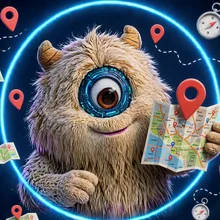
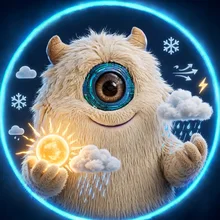
Démo BeyaBear's : mascottes Nuit, Socle, Météo, micro
Claude-Session: https://claude.ai/code/session_01HmDuQiYFhyot1Lrx4rF6nG

diff --git a/beyabears/index.html b/beyabears/index.html
@@ -13,8 +13,8 @@
 <meta name="apple-mobile-web-app-title" content="BeyaBear’s">
 <meta name="apple-mobile-web-app-status-bar-style" content="default">
 <link rel="stylesheet" href="https://fonts.googleapis.com/css2?family=Lato:wght@400;700;900&family=Plus+Jakarta+Sans:wght@500;700;800&display=swap">
-<link rel="preload" as="image" href="mascottes.jpg?v=4">
-<link rel="stylesheet" href="style.css?v=11261900">
+<link rel="preload" as="image" href="mascottes.jpg?v=5">
+<link rel="stylesheet" href="style.css?v=11262000">
 <body>
 <script>(function(){var p=new URLSearchParams(location.search);if(!['app','proche','appel','oeil'].some(function(k){return p.has(k)}))document.body.classList.add('landing')})()</script>
 <div id="landing">
@@ -96,14 +96,14 @@
     <svg viewBox="0 0 34 30" aria-hidden="true"><circle cx="8" cy="8" r="6.5" fill="#ead9b8"/><circle cx="26" cy="8" r="6.5" fill="#ead9b8"/><circle cx="17" cy="17" r="12.5" fill="#ead9b8"/><circle cx="17" cy="16" r="6.6" fill="#06080f"/><circle cx="17" cy="16" r="5" fill="none" stroke="#2e8bff" stroke-width="2.2"/><circle cx="19" cy="14" r="1.3" fill="#fff"/></svg>
     BeyaBear’s
   </a>
-  <span class="tools"><button class="ghost mic" data-listen type="button" aria-label="Parler à BeyaBear’s"><svg viewBox="0 0 24 24" aria-hidden="true" fill="none" stroke="currentColor" stroke-width="2" stroke-linecap="round"><rect x="9" y="3" width="6" height="11" rx="3"/><path d="M5 11a7 7 0 0 0 14 0M12 18v3"/></svg></button>
+  <span class="tools"><button class="ghost mic" data-listen type="button" aria-label="Parler à BeyaBear’s"><span class="masc" style="background-position:100% 50%"></span></button>
   <button class="ghost" id="viewToggle" type="button">Agrandir l’œil</button></span>
 </header>
 
 <main>
   <section class="stage" id="stage" aria-label="BeyaBear’s">
     <div class="plushBox">
-      <img class="plush" src="ourson.webp?v=11261900" alt="Ourson BeyaBear’s en casquette marine et casque audio, sous le logo, avec son écran rond au milieu du visage">
+      <img class="plush" src="ourson.webp?v=11262000" alt="Ourson BeyaBear’s en casquette marine et casque audio, sous le logo, avec son écran rond au milieu du visage">
       <div class="eye" id="eye" role="button" tabindex="0" aria-label="Œil de BeyaBear’s : ouvrir le menu">
         <div class="iris" id="iris" role="img" aria-label="Iris de BeyaBear’s"></div>
         <div class="screen" id="screen"></div>
@@ -117,15 +117,15 @@
 
 <footer class="foot"><b>BeyaBear’s</b><span>Démonstration de l’œil · © 2026</span></footer>
 <div id="toast" role="status"></div>
-<script src="qr.js?v=11261900"></script>
-<script src="paroles.js?v=11261900"></script>
-<script src="langue.js?v=11261900"></script>
-<script src="voix/liste.js?v=11261900"></script>
-<script src="jeux.js?v=11261900"></script>
-<script src="labo.js?v=11261900"></script>
-<script src="app.js?v=11261900"></script>
-<script src="clavier.js?v=11261900"></script>
-<script src="accueil.js?v=11261900"></script>
-<script src="traduire.js?v=11261900"></script>
+<script src="qr.js?v=11262000"></script>
+<script src="paroles.js?v=11262000"></script>
+<script src="langue.js?v=11262000"></script>
+<script src="voix/liste.js?v=11262000"></script>
+<script src="jeux.js?v=11262000"></script>
+<script src="labo.js?v=11262000"></script>
+<script src="app.js?v=11262000"></script>
+<script src="clavier.js?v=11262000"></script>
+<script src="accueil.js?v=11262000"></script>
+<script src="traduire.js?v=11262000"></script>
 </body>
 </html>

diff --git a/boozzo/index.html b/boozzo/index.html
@@ -13,8 +13,8 @@
 <meta name="apple-mobile-web-app-title" content="BeyaBear’s">
 <meta name="apple-mobile-web-app-status-bar-style" content="default">
 <link rel="stylesheet" href="https://fonts.googleapis.com/css2?family=Lato:wght@400;700;900&family=Plus+Jakarta+Sans:wght@500;700;800&display=swap">
-<link rel="preload" as="image" href="mascottes.jpg?v=4">
-<link rel="stylesheet" href="style.css?v=11261900">
+<link rel="preload" as="image" href="mascottes.jpg?v=5">
+<link rel="stylesheet" href="style.css?v=11262000">
 <body>
 <script>(function(){var p=new URLSearchParams(location.search);if(!['app','proche','appel','oeil'].some(function(k){return p.has(k)}))document.body.classList.add('landing')})()</script>
 <div id="landing">
@@ -96,14 +96,14 @@
     <svg viewBox="0 0 34 30" aria-hidden="true"><circle cx="8" cy="8" r="6.5" fill="#ead9b8"/><circle cx="26" cy="8" r="6.5" fill="#ead9b8"/><circle cx="17" cy="17" r="12.5" fill="#ead9b8"/><circle cx="17" cy="16" r="6.6" fill="#06080f"/><circle cx="17" cy="16" r="5" fill="none" stroke="#2e8bff" stroke-width="2.2"/><circle cx="19" cy="14" r="1.3" fill="#fff"/></svg>
     BeyaBear’s
   </a>
-  <span class="tools"><button class="ghost mic" data-listen type="button" aria-label="Parler à BeyaBear’s"><svg viewBox="0 0 24 24" aria-hidden="true" fill="none" stroke="currentColor" stroke-width="2" stroke-linecap="round"><rect x="9" y="3" width="6" height="11" rx="3"/><path d="M5 11a7 7 0 0 0 14 0M12 18v3"/></svg></button>
+  <span class="tools"><button class="ghost mic" data-listen type="button" aria-label="Parler à BeyaBear’s"><span class="masc" style="background-position:100% 50%"></span></button>
   <button class="ghost" id="viewToggle" type="button">Agrandir l’œil</button></span>
 </header>
 
 <main>
   <section class="stage" id="stage" aria-label="BeyaBear’s">
     <div class="plushBox">
-      <img class="plush" src="ourson.webp?v=11261900" alt="Ourson BeyaBear’s en casquette marine et casque audio, sous le logo, avec son écran rond au milieu du visage">
+      <img class="plush" src="ourson.webp?v=11262000" alt="Ourson BeyaBear’s en casquette marine et casque audio, sous le logo, avec son écran rond au milieu du visage">
       <div class="eye" id="eye" role="button" tabindex="0" aria-label="Œil de BeyaBear’s : ouvrir le menu">
         <div class="iris" id="iris" role="img" aria-label="Iris de BeyaBear’s"></div>
         <div class="screen" id="screen"></div>
@@ -117,15 +117,15 @@
 
 <footer class="foot"><b>BeyaBear’s</b><span>Démonstration de l’œil · © 2026</span></footer>
 <div id="toast" role="status"></div>
-<script src="qr.js?v=11261900"></script>
-<script src="paroles.js?v=11261900"></script>
-<script src="langue.js?v=11261900"></script>
-<script src="voix/liste.js?v=11261900"></script>
-<script src="jeux.js?v=11261900"></script>
-<script src="labo.js?v=11261900"></script>
-<script src="app.js?v=11261900"></script>
-<script src="clavier.js?v=11261900"></script>
-<script src="accueil.js?v=11261900"></script>
-<script src="traduire.js?v=11261900"></script>
+<script src="qr.js?v=11262000"></script>
+<script src="paroles.js?v=11262000"></script>
+<script src="langue.js?v=11262000"></script>
+<script src="voix/liste.js?v=11262000"></script>
+<script src="jeux.js?v=11262000"></script>
+<script src="labo.js?v=11262000"></script>
+<script src="app.js?v=11262000"></script>
+<script src="clavier.js?v=11262000"></script>
+<script src="accueil.js?v=11262000"></script>
+<script src="traduire.js?v=11262000"></script>
 </body>
 </html>

diff --git a/beyabears/style.css b/beyabears/style.css
@@ -707,7 +707,7 @@ img.masc { display: block; width: 100%; height: 100%; object-fit: cover; border-
 @media (max-width: 700px) { .apps i.c-masc { width: 72px; height: 72px; } .l-try .apps i.c-masc { width: 58px; height: 58px; } }
 
 /* Mascottes : une seule planche d'images */
-span.masc { display: block; width: 100%; height: 100%; border-radius: 50%; background: #050a22 url(mascottes.jpg?v=4) no-repeat; background-size: 500% 500%; }
+span.masc { display: block; width: 100%; height: 100%; border-radius: 50%; background: #050a22 url(mascottes.jpg?v=5) no-repeat; background-size: 500% 500%; }
 
 /* --- Localisation --- */
 .c-locate { background: linear-gradient(#ff7a6b, #d62d3a); }
@@ -746,3 +746,9 @@ span.masc { display: block; width: 100%; height: 100%; border-radius: 50%; backg
 .musArtist { display: grid; grid-template-columns: 84px 1fr; gap: 14px; align-items: center; margin: 14px 0; padding: 12px; border-radius: 20px; background: #f7f1e3; color: #2a2112; }
 .musArtist img { width: 84px; height: 84px; border-radius: 14px; object-fit: cover; box-shadow: 0 6px 14px rgba(60, 40, 0, .25); } .musArtist small { display: block; font-size: .72rem; font-weight: 800; letter-spacing: .1em; text-transform: uppercase; color: #9a7a2a; } .musArtist b { display: block; font-size: 1.2rem; } .musArtist span { font-size: .86rem; color: #6b5a36; }
 .musList { max-height: 420px; overflow: auto; }
+
+/* Le bouton « Parler » : la mascotte au micro */
+.ghost.mic { padding: 3px; border-radius: 50%; } .ghost.mic span.masc { width: 42px; height: 42px; }
+body.hearing .ghost.mic { box-shadow: 0 0 0 3px var(--danger), 0 0 18px var(--danger); }
+.btn span.masc { width: 36px; height: 36px; flex: none; margin: -6px 2px -6px -10px; box-shadow: 0 0 0 2px #fff; }
+.menu .dock button span.masc { width: 100%; height: 100%; }

diff --git a/boozzo/style.css b/boozzo/style.css
@@ -707,7 +707,7 @@ img.masc { display: block; width: 100%; height: 100%; object-fit: cover; border-
 @media (max-width: 700px) { .apps i.c-masc { width: 72px; height: 72px; } .l-try .apps i.c-masc { width: 58px; height: 58px; } }
 
 /* Mascottes : une seule planche d'images */
-span.masc { display: block; width: 100%; height: 100%; border-radius: 50%; background: #050a22 url(mascottes.jpg?v=4) no-repeat; background-size: 500% 500%; }
+span.masc { display: block; width: 100%; height: 100%; border-radius: 50%; background: #050a22 url(mascottes.jpg?v=5) no-repeat; background-size: 500% 500%; }
 
 /* --- Localisation --- */
 .c-locate { background: linear-gradient(#ff7a6b, #d62d3a); }
@@ -746,3 +746,9 @@ span.masc { display: block; width: 100%; height: 100%; border-radius: 50%; backg
 .musArtist { display: grid; grid-template-columns: 84px 1fr; gap: 14px; align-items: center; margin: 14px 0; padding: 12px; border-radius: 20px; background: #f7f1e3; color: #2a2112; }
 .musArtist img { width: 84px; height: 84px; border-radius: 14px; object-fit: cover; box-shadow: 0 6px 14px rgba(60, 40, 0, .25); } .musArtist small { display: block; font-size: .72rem; font-weight: 800; letter-spacing: .1em; text-transform: uppercase; color: #9a7a2a; } .musArtist b { display: block; font-size: 1.2rem; } .musArtist span { font-size: .86rem; color: #6b5a36; }
 .musList { max-height: 420px; overflow: auto; }
+
+/* Le bouton « Parler » : la mascotte au micro */
+.ghost.mic { padding: 3px; border-radius: 50%; } .ghost.mic span.masc { width: 42px; height: 42px; }
+body.hearing .ghost.mic { box-shadow: 0 0 0 3px var(--danger), 0 0 18px var(--danger); }
+.btn span.masc { width: 36px; height: 36px; flex: none; margin: -6px 2px -6px -10px; box-shadow: 0 0 0 2px #fff; }
+.menu .dock button span.masc { width: 100%; height: 100%; }

diff --git a/beyabears/app.js b/beyabears/app.js
@@ -69,8 +69,9 @@ const EXTERNAL = [
 ];
 // Les mascottes remplacent les pictogrammes : une image ronde par application.
 // Toutes les mascottes tiennent dans une seule image : un seul chargement, donc jamais d'icône vide isolée.
-const MASCOTS = ['call', 'chat', 'clock', 'core', 'dream', 'emo', 'esim', 'face', 'games', 'iris', 'link', 'locate', 'memory', 'music', 'phone', 'photo', 'story', 'tiktok', 'torch', 'whatsapp', 'youtube'];
+const MASCOTS = ['call', 'chat', 'clock', 'core', 'dream', 'emo', 'esim', 'face', 'games', 'holo', 'iris', 'link', 'locate', 'memory', 'mic', 'music', 'phone', 'photo', 'story', 'tiktok', 'torch', 'weather', 'whatsapp', 'youtube'];
 MASCOTS.forEach((id, n) => { ICON['m_' + id] = `<span class="masc" style="background-position:${(n % 5) * 25}% ${Math.floor(n / 5) * 25}%"></span>`; });
+ICON.mic = ICON.m_mic; // le bouton « Parler » porte la mascotte au micro
 APPS.forEach((app) => { if (MASCOTS.includes(app[0])) { ICON[app[0]] = ICON['m_' + app[0]]; app[2] = 'c-masc'; } });
 EXTERNAL.forEach((app) => { if (MASCOTS.includes(app[0])) { app[3] = 'm_' + app[0]; app[2] = 'c-masc'; } });
 const externalTile = ([, label, color, icon, url], cls = '') =>

diff --git a/boozzo/app.js b/boozzo/app.js
@@ -69,8 +69,9 @@ const EXTERNAL = [
 ];
 // Les mascottes remplacent les pictogrammes : une image ronde par application.
 // Toutes les mascottes tiennent dans une seule image : un seul chargement, donc jamais d'icône vide isolée.
-const MASCOTS = ['call', 'chat', 'clock', 'core', 'dream', 'emo', 'esim', 'face', 'games', 'iris', 'link', 'locate', 'memory', 'music', 'phone', 'photo', 'story', 'tiktok', 'torch', 'whatsapp', 'youtube'];
+const MASCOTS = ['call', 'chat', 'clock', 'core', 'dream', 'emo', 'esim', 'face', 'games', 'holo', 'iris', 'link', 'locate', 'memory', 'mic', 'music', 'phone', 'photo', 'story', 'tiktok', 'torch', 'weather', 'whatsapp', 'youtube'];
 MASCOTS.forEach((id, n) => { ICON['m_' + id] = `<span class="masc" style="background-position:${(n % 5) * 25}% ${Math.floor(n / 5) * 25}%"></span>`; });
+ICON.mic = ICON.m_mic; // le bouton « Parler » porte la mascotte au micro
 APPS.forEach((app) => { if (MASCOTS.includes(app[0])) { ICON[app[0]] = ICON['m_' + app[0]]; app[2] = 'c-masc'; } });
 EXTERNAL.forEach((app) => { if (MASCOTS.includes(app[0])) { app[3] = 'm_' + app[0]; app[2] = 'c-masc'; } });
 const externalTile = ([, label, color, icon, url], cls = '') =>
